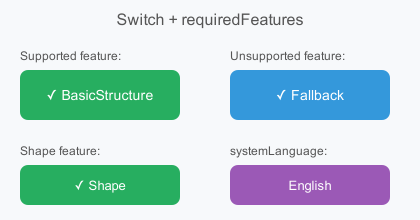
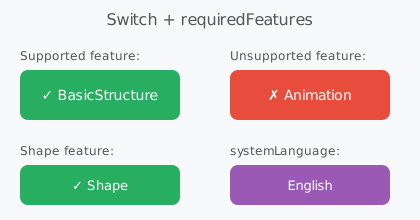
Ignore requiredFeatures per SVG 2 to match modern browser rendering (#182)
* Initial plan

* Ignore requiredFeatures per SVG 2 spec to match modern browser rendering

Modern browsers (SVG 2) have deprecated requiredFeatures and ignore it
entirely. This caused <switch> elements to select fallback branches
when browsers would render the first child.

- Features.matchFeatures(): skip requiredFeatures evaluation
- Update tests in FeaturesTest and NodeTest for SVG 2 semantics
- Regenerate comparison PNG for 25_switch_features.svg

Agent-Logs-Url: https://github.com/brunoborges/jairosvg/sessions/94c8d19a-9a43-4eba-9e7f-7e25056f71ce

* Document SVG 2 alignment throughout the project

Agent-Logs-Url: https://github.com/brunoborges/jairosvg/sessions/951d25ef-13f2-4134-8ae5-d02025d1ce08

---------

diff --git a/src/main/java/io/brunoborges/jairosvg/util/Features.java b/src/main/java/io/brunoborges/jairosvg/util/Features.java
@@ -4,7 +4,15 @@ import java.util.Locale;
 import java.util.Set;
 
 /**
- * SVG conditional processing helpers. Port of CairoSVG features.py
+ * SVG conditional processing helpers. Port of CairoSVG features.py.
+ *
+ * <p>
+ * JairoSVG targets SVG 1.1 but selectively aligns with SVG 2 where modern
+ * browsers have diverged. Specifically, {@code requiredFeatures} is deprecated
+ * in SVG 2 and ignored by all modern browsers, so
+ * {@link #matchFeatures(String, String, String)} does not evaluate it.
+ * {@code systemLanguage} and {@code requiredExtensions} are still evaluated per
+ * SVG 1.1/SVG 2.
  */
 public final class Features {
 
@@ -44,12 +52,17 @@ public final class Features {
         return false;
     }
 
-    /** Check the node matches the conditional processing attributes. */
+    /**
+     * Check the node matches the conditional processing attributes.
+     *
+     * <p>
+     * {@code requiredFeatures} is accepted for API compatibility but ignored per
+     * SVG 2 — modern browsers do not evaluate it.
+     */
     public static boolean matchFeatures(String requiredFeatures, String requiredExtensions, String systemLanguage) {
         if (requiredExtensions != null && !requiredExtensions.isEmpty())
             return false;
-        if (requiredFeatures != null && !requiredFeatures.isEmpty() && !hasFeatures(requiredFeatures))
-            return false;
+        // requiredFeatures is deprecated in SVG 2 and ignored by modern browsers
         if (systemLanguage != null && !systemLanguage.isEmpty() && !supportLanguages(systemLanguage))
             return false;
         return true;

diff --git a/src/test/java/io/brunoborges/jairosvg/NodeTest.java b/src/test/java/io/brunoborges/jairosvg/NodeTest.java
@@ -230,7 +230,8 @@ class NodeTest {
 
     @Test
     void testConditionalProcessingSkipsUnsupported() throws Exception {
-        // L392, L401: requiredFeatures that aren't supported
+        // SVG 2: requiredFeatures is deprecated and ignored, so both rects render.
+        // Blue rect (last) paints over red rect.
         BufferedImage img = RenderTestHelper.render("""
                 <svg xmlns="http://www.w3.org/2000/svg" width="100" height="100">
                   <rect fill="red" x="0" y="0" width="100" height="100"/>
@@ -238,13 +239,15 @@ class NodeTest {
                         fill="blue" x="0" y="0" width="100" height="100"/>
                 </svg>
                 """);
-        // Unsupported feature -> blue rect should be skipped, red remains
-        RenderTestHelper.assertPixelColor(img, 50, 50, 255, 0, 0);
+        // requiredFeatures is ignored → blue rect renders on top of red
+        RenderTestHelper.assertPixelColor(img, 50, 50, 0, 0, 255);
     }
 
     @Test
     void testConditionalProcessingNestedSkip() throws Exception {
-        // L392: nested elements inside a skipped subtree
+        // SVG 2: requiredFeatures is deprecated and ignored.
+        // The <g> with Animation feature is NOT skipped → green rect (last) renders on
+        // top.
         BufferedImage img = RenderTestHelper.render("""
                 <svg xmlns="http://www.w3.org/2000/svg" width="100" height="100">
                   <rect fill="red" x="0" y="0" width="100" height="100"/>
@@ -256,7 +259,8 @@ class NodeTest {
                   </g>
                 </svg>
                 """);
-        RenderTestHelper.assertPixelColor(img, 50, 50, 255, 0, 0);
+        // requiredFeatures ignored → green rect (last painted) is visible
+        RenderTestHelper.assertPixelColor(img, 50, 50, 0, 128, 0);
     }
 
     @Test

diff --git a/src/test/java/io/brunoborges/jairosvg/FeaturesTest.java b/src/test/java/io/brunoborges/jairosvg/FeaturesTest.java
@@ -97,8 +97,9 @@ class FeaturesTest {
     }
 
     @Test
-    void matchFeatures_unsupportedFeature_returnsFalse() {
-        assertFalse(Features.matchFeatures("http://www.w3.org/TR/SVG11/feature#Animation", null, null));
+    void matchFeatures_unsupportedFeature_returnsTrue_svg2() {
+        // SVG 2: requiredFeatures is deprecated and ignored by modern browsers
+        assertTrue(Features.matchFeatures("http://www.w3.org/TR/SVG11/feature#Animation", null, null));
     }
 
     @Test
@@ -141,6 +142,7 @@ class FeaturesTest {
 
     @Test
     void conditionalRendering_switchWithUnsupportedFeature() throws Exception {
+        // SVG 2: requiredFeatures is deprecated, so the first child always matches
         String svg = """
                 <svg xmlns="http://www.w3.org/2000/svg" width="100" height="100">
                   <switch>
@@ -151,7 +153,7 @@ class FeaturesTest {
                 </svg>
                 """;
         var img = RenderTestHelper.render(svg);
-        // Should render blue (fallback)
-        RenderTestHelper.assertPixelColor(img, 50, 50, 0, 0, 255);
+        // requiredFeatures is ignored in SVG 2, so first child (red) renders
+        RenderTestHelper.assertPixelColor(img, 50, 50, 255, 0, 0);
     }
 }

diff --git a/LIMITATIONS.md b/LIMITATIONS.md
@@ -19,3 +19,11 @@ A full implementation of `<foreignObject>` would require integrating an external
 - `<script>` elements are not executed.
 
 JairoSVG intentionally omits SVG scripting support as a security measure. Supporting `<script>` would require embedding a JavaScript engine and exposing SVG DOM APIs, which is currently out of scope.
+
+## SVG 2 Behavioral Alignment
+
+JairoSVG targets SVG 1.1 but selectively adopts SVG 2 behavioral changes where modern browsers have diverged from SVG 1.1 and strict 1.1 compliance would produce visually incorrect output compared to browser rendering.
+
+Current SVG 2 alignments:
+
+- **`requiredFeatures` ignored**: SVG 2 deprecated the `requiredFeatures` conditional processing attribute. Modern browsers ignore it entirely, so JairoSVG does the same. This primarily affects `<switch>` elements — browsers render the first child regardless of `requiredFeatures`, and JairoSVG now matches that behavior. The `systemLanguage` and `requiredExtensions` attributes are unaffected and still evaluated per SVG 1.1/SVG 2.

diff --git a/comparison/README.md b/comparison/README.md
@@ -33,7 +33,7 @@ A comprehensive comparison of four SVG libraries — **JairoSVG** (Java), **Echo
 | **License**           | LGPL-3.0                                                       | Apache-2.0                                                 | LGPL-3.0                               | MIT                                               |
 | **Repository**        | [brunoborges/jairosvg]                                         | [css4j/echosvg]                                            | [Kozea/CairoSVG]                       | [weisJ/jsvg]                                      |
 | **Current version**   | 1.0.4                                                          | 2.4                                                        | 2.7+                                   | 2.0.0                                             |
-| **SVG spec target**   | SVG 1.1                                                        | SVG 1.1 + partial SVG 2                                    | SVG 1.1                                | SVG 1.1 + partial SVG 2                           |
+| **SVG spec target**   | SVG 1.1 + [selective SVG 2](../LIMITATIONS.md#svg-2-behavioral-alignment) | SVG 1.1 + partial SVG 2                                    | SVG 1.1                                | SVG 1.1 + partial SVG 2                           |
 | **Rendering backend** | Java2D                                                         | GVT (Batik) → Java2D                                       | Cairo (C library)                      | Java2D                                            |
 | **Key strength**      | Speed (2–26× faster than EchoSVG, on par with JSVG, 1–2.4× faster than CairoSVG) | Feature completeness and standard compliance               | Native C performance, mature ecosystem | Designed for Swing GUI embedding (IntelliJ, etc.) |
 
@@ -323,7 +323,7 @@ See [VISUAL_COMPARISON.md](VISUAL_COMPARISON.md) for a side-by-side rendering co
 | Dimension          | JairoSVG                                               | EchoSVG                                      | CairoSVG                                       | JSVG                                   |
 | ------------------ | ------------------------------------------------------ | -------------------------------------------- | ---------------------------------------------- | -------------------------------------- |
 | **Best for**       | Fast Java SVG conversion                               | Full SVG toolkit (DOM, scripting, animation) | Python SVG conversion                          | SVG rendering in Swing/Java2D GUIs     |
-| **SVG spec**       | SVG 1.1 (static)                                       | SVG 1.1 + partial SVG 2                      | SVG 1.1 (static)                               | SVG 1.1 + partial SVG 2               |
+| **SVG spec**       | SVG 1.1 + [selective SVG 2](../LIMITATIONS.md#svg-2-behavioral-alignment) (static) | SVG 1.1 + partial SVG 2                      | SVG 1.1 (static)                               | SVG 1.1 + partial SVG 2               |
 | **CSS**            | Basic + structural pseudo selectors                    | Advanced (CSS Level 4, css4j)                | Basic (via tinycss2)                           | Good CSS support                       |
 | **Performance**    | 2–31× faster than EchoSVG; on par with JSVG; 1–2.5× faster than CairoSVG | Slowest (GVT overhead)                       | Fast (native C), but skips some filter effects | Fast (lightweight, designed for Swing) |
 | **API simplicity** | One-liner / builder                                    | Transcoder pattern                           | One-liner functions                            | SVGLoader + render()                   |

diff --git a/README.md b/README.md
@@ -10,7 +10,7 @@ A high-performance Java port of [CairoSVG](https://cairosvg.org) — SVG 1.1 to 
 
 ## Features
 
-- 🎨 **SVG 1.1 rendering** using Java2D — no native dependencies
+- 🎨 **SVG 1.1 rendering** using Java2D — no native dependencies (with [selective SVG 2 alignment](LIMITATIONS.md#svg-2-behavioral-alignment))
 - 📄 **Multiple output formats**: PNG, JPEG, TIFF, PDF (via optional [Apache PDFBox](https://pdfbox.apache.org/)), PostScript/EPS
 - 🔷 **Full shape support**: rect, circle, ellipse, line, polygon, polyline, path
 - 🌈 **Gradients**: linear and radial with stop colors and opacity